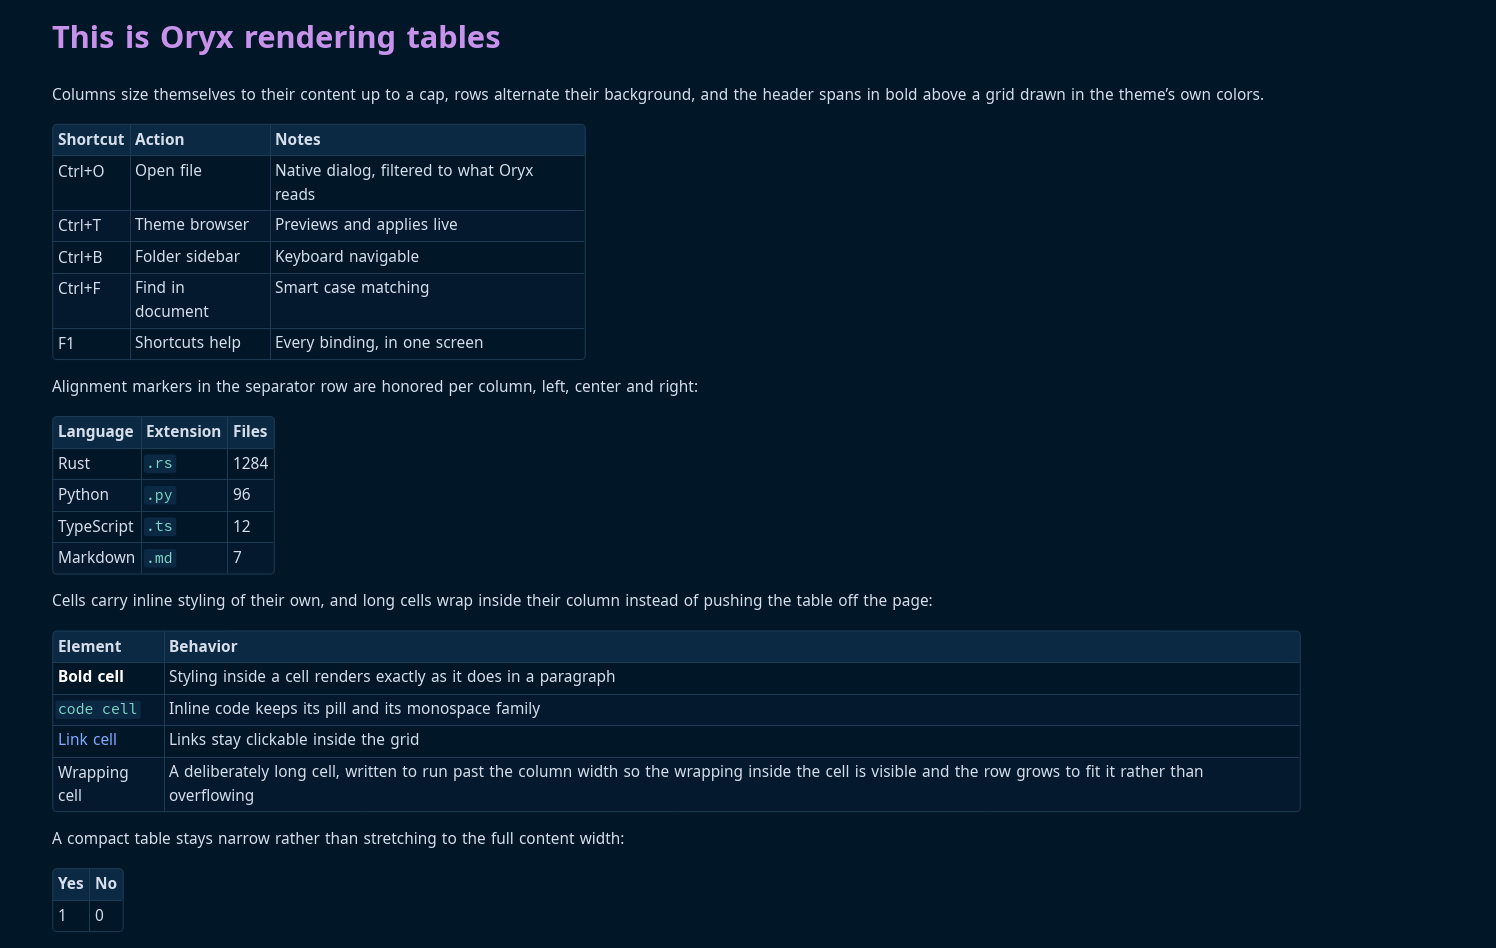
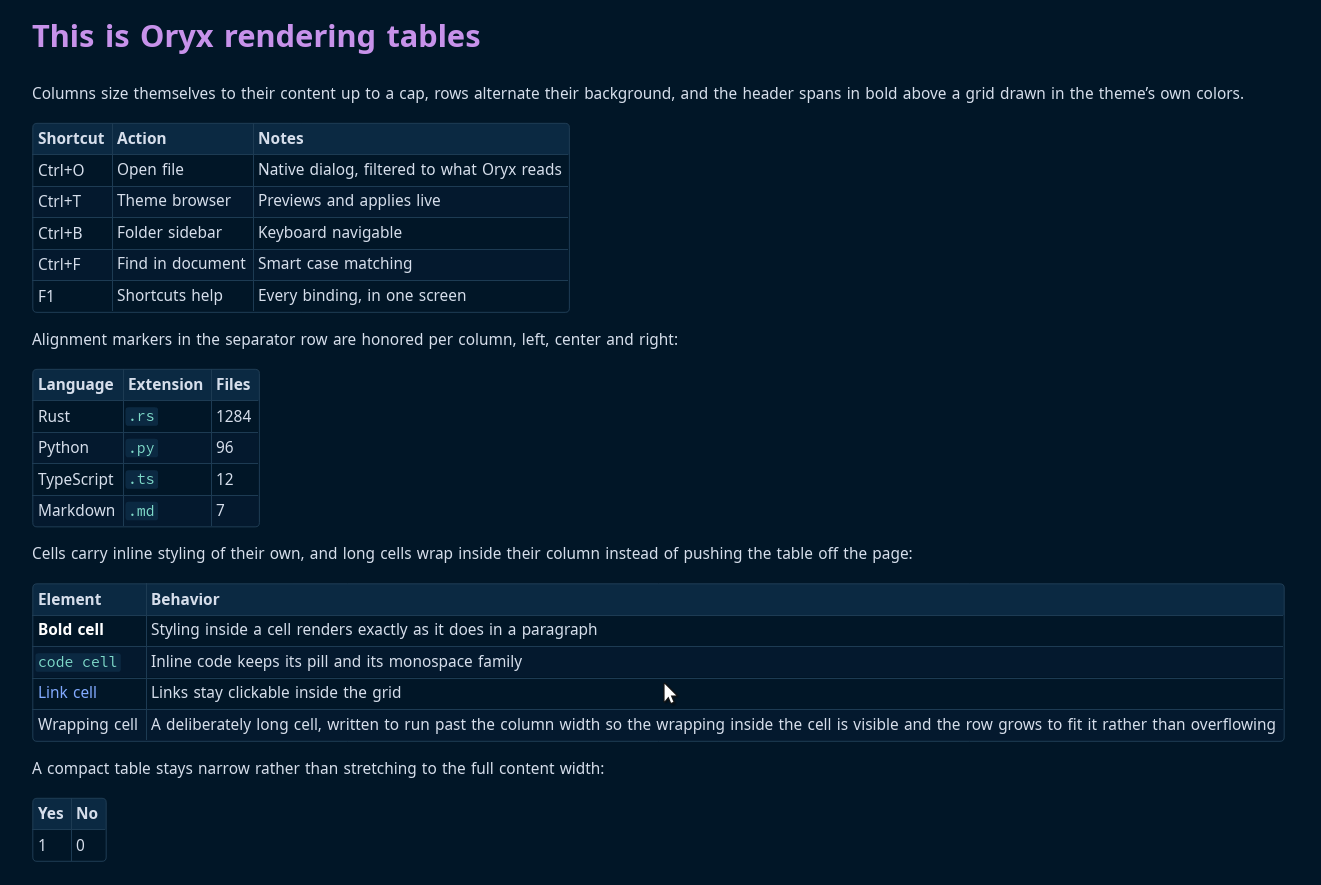
fix: give table columns a pixel of slack

Changed region(s): [[0.0, 0.0915, 0.9932, 0.9763], [0.031, 0.0305, 0.3724, 0.061]]

diff --git a/tests/layout.rs b/tests/layout.rs
@@ -1106,3 +1106,34 @@ fn a_partial_code_panel_covers_the_placed_lines() {
         "a partial panel is already at full height"
     );
 }
+
+#[test]
+fn a_table_grants_each_column_more_than_its_text_needs() {
+    // The measuring pass shapes a cell with no wrap width; the layout pass
+    // shapes it inside the column. Font fallback can resolve differently
+    // between the two, so a column granted exactly the measured width wraps
+    // its cell in a table with room to spare.
+    let l = lay(
+        "| Shortcut | Action | Notes |\n|---|---|---|\n\
+         | Ctrl+F | Find in document | Smart case matching |\n",
+        1200.0,
+    );
+    let pad = 8.0;
+    let cell = l
+        .runs
+        .iter()
+        .find(|r| r.text == "Find in document")
+        .expect("cell laid out on one line");
+    let next_column = l
+        .runs
+        .iter()
+        .filter(|r| r.x > cell.x + cell.width)
+        .map(|r| r.x)
+        .fold(f32::MAX, f32::min);
+    let inner = next_column - pad - cell.x;
+    assert!(
+        inner > cell.width,
+        "column holds {inner} for text needing {}",
+        cell.width
+    );
+}

diff --git a/src/layout/engine.rs b/src/layout/engine.rs
@@ -1191,7 +1191,12 @@ fn layout_table(
         for row in rows {
             natural = natural.max(measure(fonts, row.get(c).unwrap_or(&empty_cell), false));
         }
-        *w = natural + 2.0 * pad;
+        // One pixel of slack: the measuring pass shapes the cell without a
+        // wrap width and the layout pass shapes it inside the column, and
+        // font fallback can resolve differently between the two. Granting
+        // exactly the measured width makes a cell wrap on that difference
+        // alone, in a table with room to spare.
+        *w = natural.ceil() + 2.0 * pad + 1.0;
     }
     let naturals = widths.clone();
     let cap = avail / ncols as f32 * 1.5;
